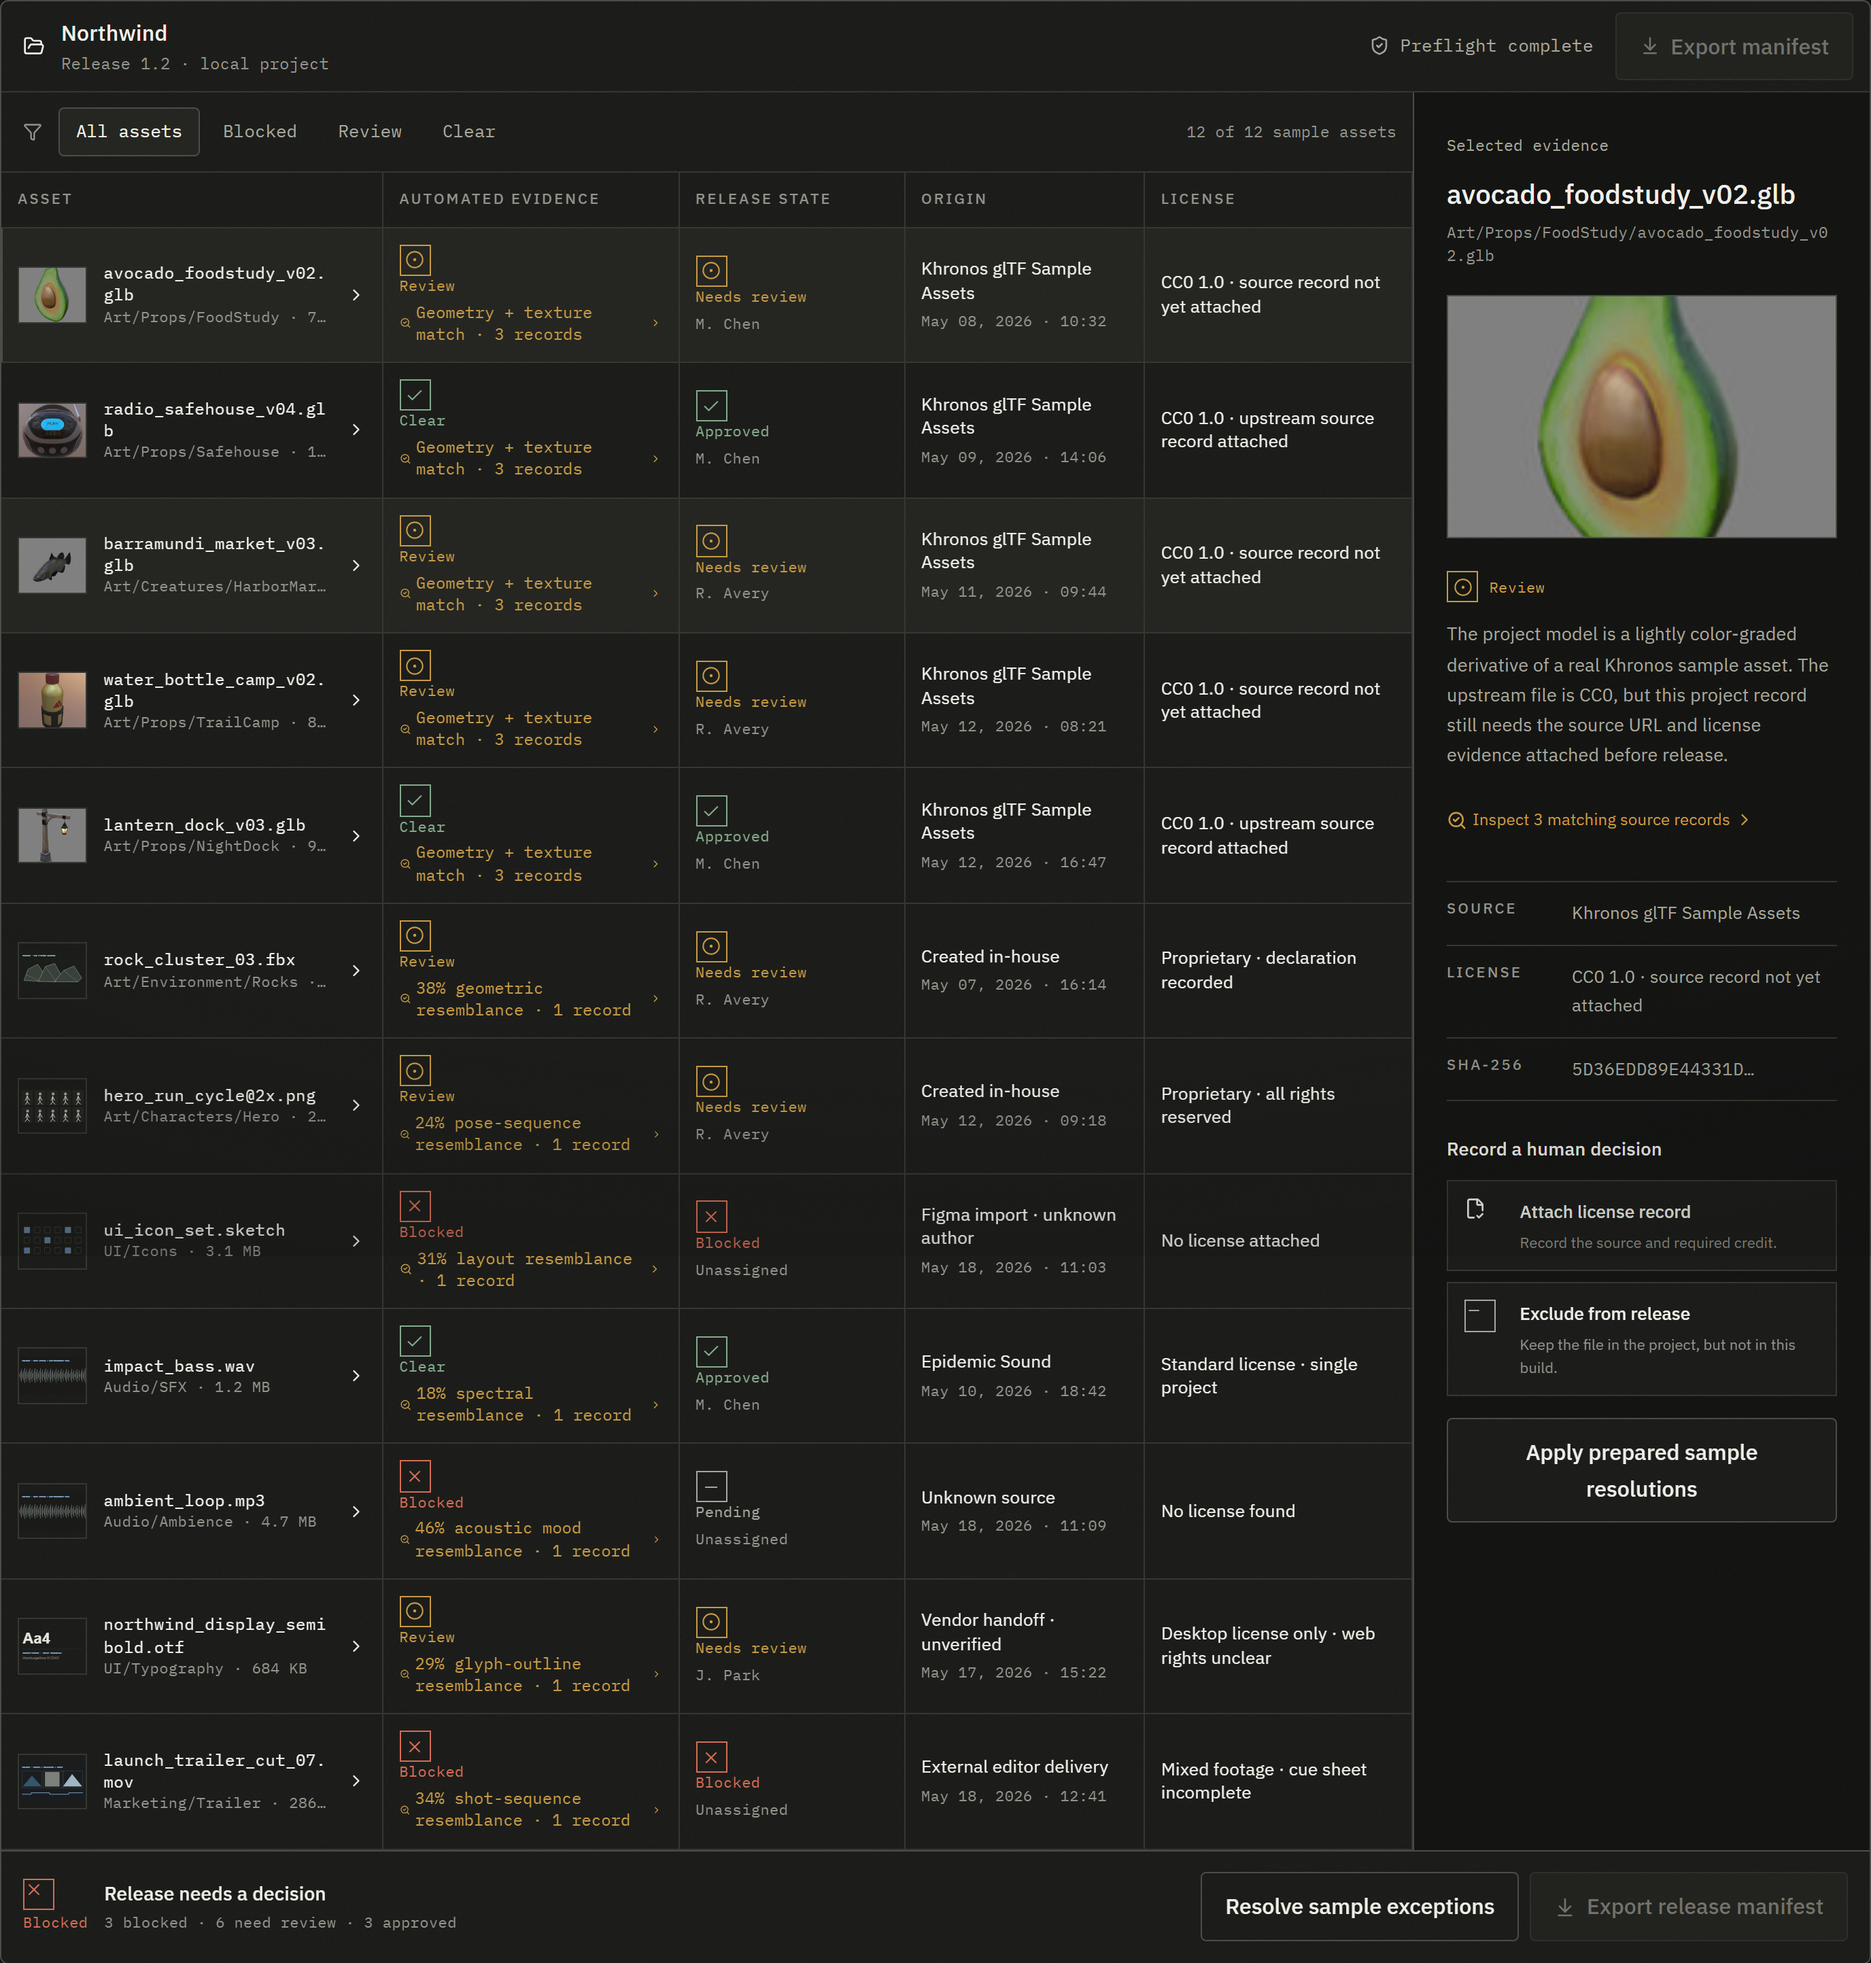
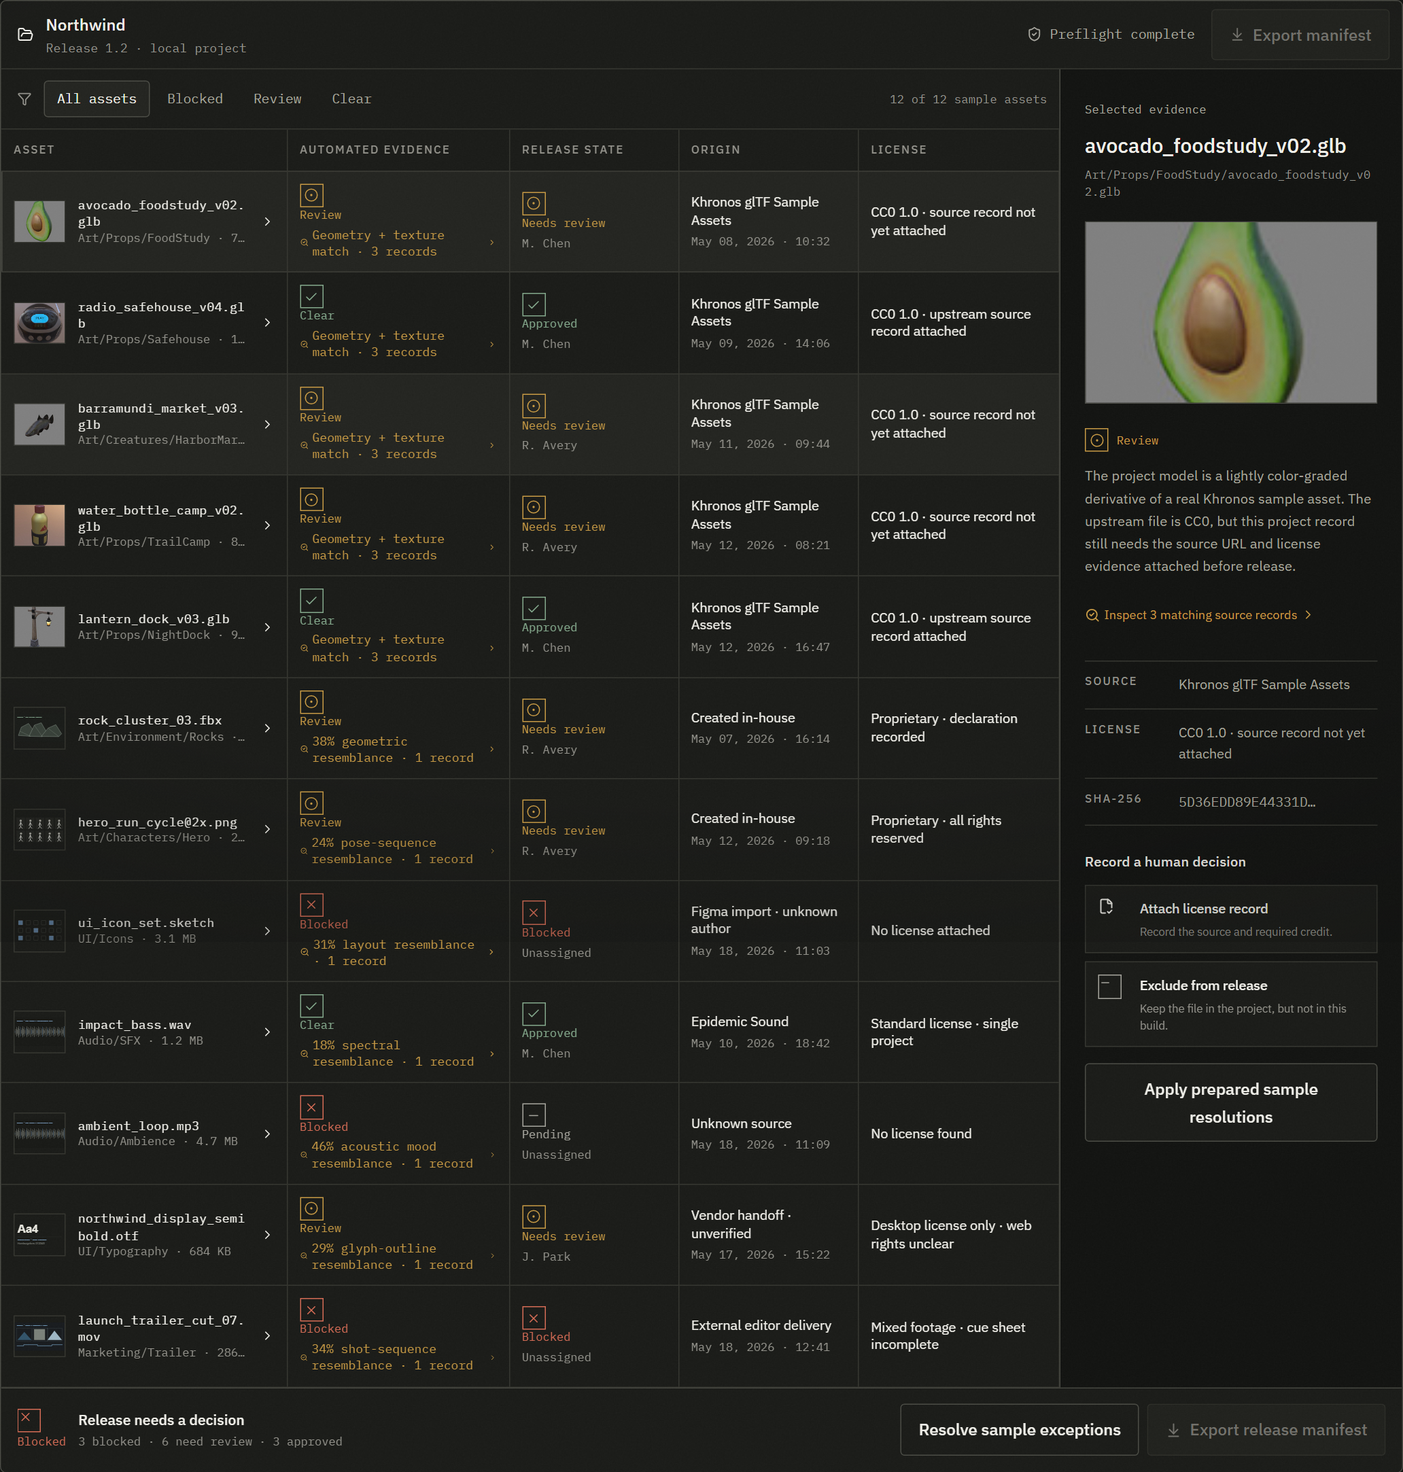
Point the screenshot instructions at assets:khronos and lighten the captures
The root README still told readers to download the five source GLBs by hand;
assets:khronos is now the supported path and the other READMEs already say so.
The two screenshots re-captured at 1.5x device scale — half the bytes, still
sharp at the width GitHub renders them.

Claude-Session: https://claude.ai/code/session_01E35jc2SJRp21xD9fwhQqBq

diff --git a/README.md b/README.md
@@ -411,10 +411,11 @@ node frontend/scripts/capture-readme-shots.mjs
 
 It builds the frontend, serves it on vite preview, and drives the sample preflight in headless
 Chromium. Prerequisites: `npm install` in `frontend/`, `npx playwright install chromium`, and the
-five gitignored Khronos `*-source.glb` files downloaded into `frontend/public/assets/` followed by
-`npm --prefix frontend run assets:derive`. Without those models the comparison viewer falls back to
-a still image, and the script fails rather than photograph the fallback;
-`frontend/public/assets/ASSET-PROVENANCE.md` lists every upstream source and hash.
+comparison models — `npm --prefix frontend run assets:khronos` downloads the five gitignored
+sources against the hashes in `frontend/public/assets/ASSET-PROVENANCE.md`, then
+`npm --prefix frontend run assets:derive` rebuilds the project derivatives. Without those models
+the comparison viewer falls back to a still image, and the script fails rather than photograph
+the fallback.
 
 Desktop screenshots: run `creatorflow.Main` with `-Dcreatorflow.screenshot.dir=docs/screenshots`
 and a throwaway `-Dcreatorflow.data.dir`.
